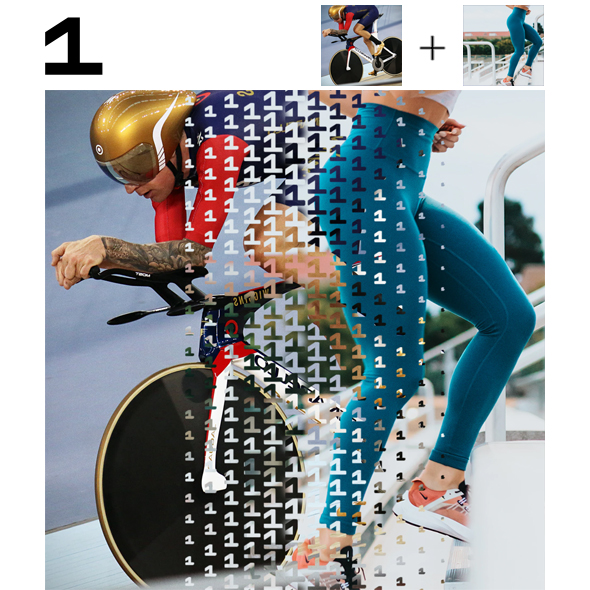
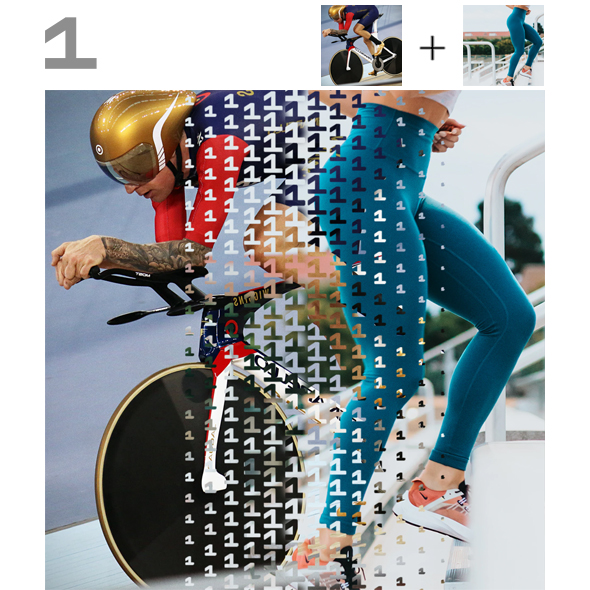
01

Changed region(s): [[0.061, 0.0305, 0.1831, 0.1525]]

diff --git a/numbers/index.html b/numbers/index.html
@@ -17,7 +17,7 @@
 				<li>No mask or selection needed: place the images in different layers, click and hide the top layer, choose the action and play it</li>
 				<li>Non-destructive, keeps the original images untouched</li>
 				<li>12 different pattern shapes<br/>
-                <img src="https://raw.githubusercontent.com/akidaniel/almacen/gh-pages/wipe3_html/images/wipetiles_03.jpg" alt="Tiles"><br /></li>
+                <img src="https://raw.githubusercontent.com/akidaniel/almacen/gh-pages/numbers/images/wipetiles_03.jpg" alt="Tiles"><br /></li>
 
 				<li>x 3 types: Small, Medium and Large to use in different images sizes</li>
 				<li>= 36 total actions</li>
@@ -30,46 +30,46 @@
 <p>
 <img src="https://raw.githubusercontent.com/akidaniel/almacen/gh-pages/wipe_html/images/blank.jpg" alt="blank">
 
-<img src="https://raw.githubusercontent.com/akidaniel/almacen/gh-pages/wipe3_html/images/4star.jpg" alt="4star">
+<img src="https://raw.githubusercontent.com/akidaniel/almacen/gh-pages/numbers/images/1.jpg" alt="Number 1">
 <img src="https://raw.githubusercontent.com/akidaniel/almacen/gh-pages/wipe_html/images/blank.jpg" alt="blank">
 
-<img src="https://raw.githubusercontent.com/akidaniel/almacen/gh-pages/wipe3_html/images/arrowhead.jpg" alt="Arrowhead">
+<img src="https://raw.githubusercontent.com/akidaniel/almacen/gh-pages/numbers/images/2.jpg" alt="Number 2">
 <img src="https://raw.githubusercontent.com/akidaniel/almacen/gh-pages/wipe_html/images/blank.jpg" alt="blank">
 
-<img src="https://raw.githubusercontent.com/akidaniel/almacen/gh-pages/wipe3_html/images/atom.jpg" alt="Atom">
+<img src="https://raw.githubusercontent.com/akidaniel/almacen/gh-pages/numbers/images/3.jpg" alt="Number 3">
 <img src="https://raw.githubusercontent.com/akidaniel/almacen/gh-pages/wipe_html/images/blank.jpg" alt="blank">
 
-<img src="https://raw.githubusercontent.com/akidaniel/almacen/gh-pages/wipe3_html/images/cross.jpg" alt="Cross">
+<img src="https://raw.githubusercontent.com/akidaniel/almacen/gh-pages/numbers/images/4.jpg" alt="Number 4">
 <img src="https://raw.githubusercontent.com/akidaniel/almacen/gh-pages/wipe_html/images/blank.jpg" alt="blank">
 
-<img src="https://raw.githubusercontent.com/akidaniel/almacen/gh-pages/wipe3_html/images/ear.jpg" alt="Ear">
+<img src="https://raw.githubusercontent.com/akidaniel/almacen/gh-pages/numbers/images/5.jpg" alt="Number 5">
 <img src="https://raw.githubusercontent.com/akidaniel/almacen/gh-pages/wipe_html/images/blank.jpg" alt="blank">
 
-<img src="https://raw.githubusercontent.com/akidaniel/almacen/gh-pages/wipe3_html/images/leopard.jpg" alt="Leopard">
+<img src="https://raw.githubusercontent.com/akidaniel/almacen/gh-pages/numbers/images/6.jpg" alt="Number 6">
 <img src="https://raw.githubusercontent.com/akidaniel/almacen/gh-pages/wipe_html/images/blank.jpg" alt="blank">
 
-<img src="https://raw.githubusercontent.com/akidaniel/almacen/gh-pages/wipe3_html/images/octagram.jpg" alt="Octagram">
+<img src="https://raw.githubusercontent.com/akidaniel/almacen/gh-pages/numbers/images/7.jpg" alt="Number 7">
 <img src="https://raw.githubusercontent.com/akidaniel/almacen/gh-pages/wipe_html/images/blank.jpg" alt="blank">
 
-<img src="https://raw.githubusercontent.com/akidaniel/almacen/gh-pages/wipe3_html/images/parallelogram.jpg" alt="Parallelogram">
+<img src="https://raw.githubusercontent.com/akidaniel/almacen/gh-pages/numbers/images/8.jpg" alt="Number 8">
 <img src="https://raw.githubusercontent.com/akidaniel/almacen/gh-pages/wipe_html/images/blank.jpg" alt="blank">
 
-<img src="https://raw.githubusercontent.com/akidaniel/almacen/gh-pages/wipe3_html/images/pied.jpg" alt="Pied de poul">
+<img src="https://raw.githubusercontent.com/akidaniel/almacen/gh-pages/numbers/images/9.jpg" alt="Number 9">
 <img src="https://raw.githubusercontent.com/akidaniel/almacen/gh-pages/wipe_html/images/blank.jpg" alt="blank">
 
-<img src="https://raw.githubusercontent.com/akidaniel/almacen/gh-pages/wipe3_html/images/puppet.jpg" alt="Puppet">
+<img src="https://raw.githubusercontent.com/akidaniel/almacen/gh-pages/numbers/images/0.jpg" alt="Number 0">
 <img src="https://raw.githubusercontent.com/akidaniel/almacen/gh-pages/wipe_html/images/blank.jpg" alt="blank">
 
-<img src="https://raw.githubusercontent.com/akidaniel/almacen/gh-pages/wipe3_html/images/squama.jpg" alt="Squama">
+<img src="https://raw.githubusercontent.com/akidaniel/almacen/gh-pages/numbers/images/H.jpg" alt="Heart">
 <img src="https://raw.githubusercontent.com/akidaniel/almacen/gh-pages/wipe_html/images/blank.jpg" alt="blank">
 
-<img src="https://raw.githubusercontent.com/akidaniel/almacen/gh-pages/wipe3_html/images/v.jpg" alt="V">
+<img src="https://raw.githubusercontent.com/akidaniel/almacen/gh-pages/numbers/images/X.jpg" alt="X">
 
 <img src="https://raw.githubusercontent.com/akidaniel/almacen/gh-pages/wipe_html/images/blank.jpg" alt="blank">
 <img src="https://raw.githubusercontent.com/akidaniel/almacen/gh-pages/wipe_html/images/blank.jpg" alt="blank">
 <img src="https://raw.githubusercontent.com/akidaniel/almacen/gh-pages/wipe_html/images/blank.jpg" alt="blank">
 
-<img src="https://raw.githubusercontent.com/akidaniel/almacen/gh-pages/wipe3_html/images/aniwipe03.gif" width="500" style="margin:0 45px" alt="Wipe animation">
+<img src="https://raw.githubusercontent.com/akidaniel/almacen/gh-pages/numbers/images/aniwipe03.gif" width="500" style="margin:0 45px" alt="Wipe animation">
 
 <img src="https://raw.githubusercontent.com/akidaniel/almacen/gh-pages/wipe_html/images/blank.jpg" alt="blank">
 <img src="https://raw.githubusercontent.com/akidaniel/almacen/gh-pages/wipe_html/images/blank.jpg" alt="blank">
@@ -106,17 +106,17 @@
 
 
 
-<p><img src="https://raw.githubusercontent.com/akidaniel/almacen/gh-pages/wipe3_html/images/wipe_animation.gif" alt="Wipe animation">
+<p><img src="https://raw.githubusercontent.com/akidaniel/almacen/gh-pages/numbers/images/wipe_animation.gif" alt="Wipe animation">
 </p>
 
 <h3 style="color:#054F6D">Optional:</h3>
 <p  style="color:#bababa;">Invert the resulting mask to change the wipe direction</p>
-<p><img src="https://raw.githubusercontent.com/akidaniel/almacen/gh-pages/wipe3_html/images/invert.gif" alt="Inverting mask">
+<p><img src="https://raw.githubusercontent.com/akidaniel/almacen/gh-pages/numbers/images/invert.gif" alt="Inverting mask">
 </p>
 
 <h3 style="color:#054F6D">Video link:</h3>
 
-<p><a href="https://youtu.be/8p-FpgQHXxU"><img src="https://raw.githubusercontent.com/akidaniel/almacen/gh-pages/wipe3_html/images/video.jpg" alt="video" ></a>
+<p><a href="https://youtu.be/8p-FpgQHXxU"><img src="https://raw.githubusercontent.com/akidaniel/almacen/gh-pages/numbers/images/video.jpg" alt="video" ></a>
 </p>
 <p style="color:#bababa; ">The example images used in this preview are from <a href="https://unsplash.com/">unsplash.com</a>, not included</p>
 </div>
